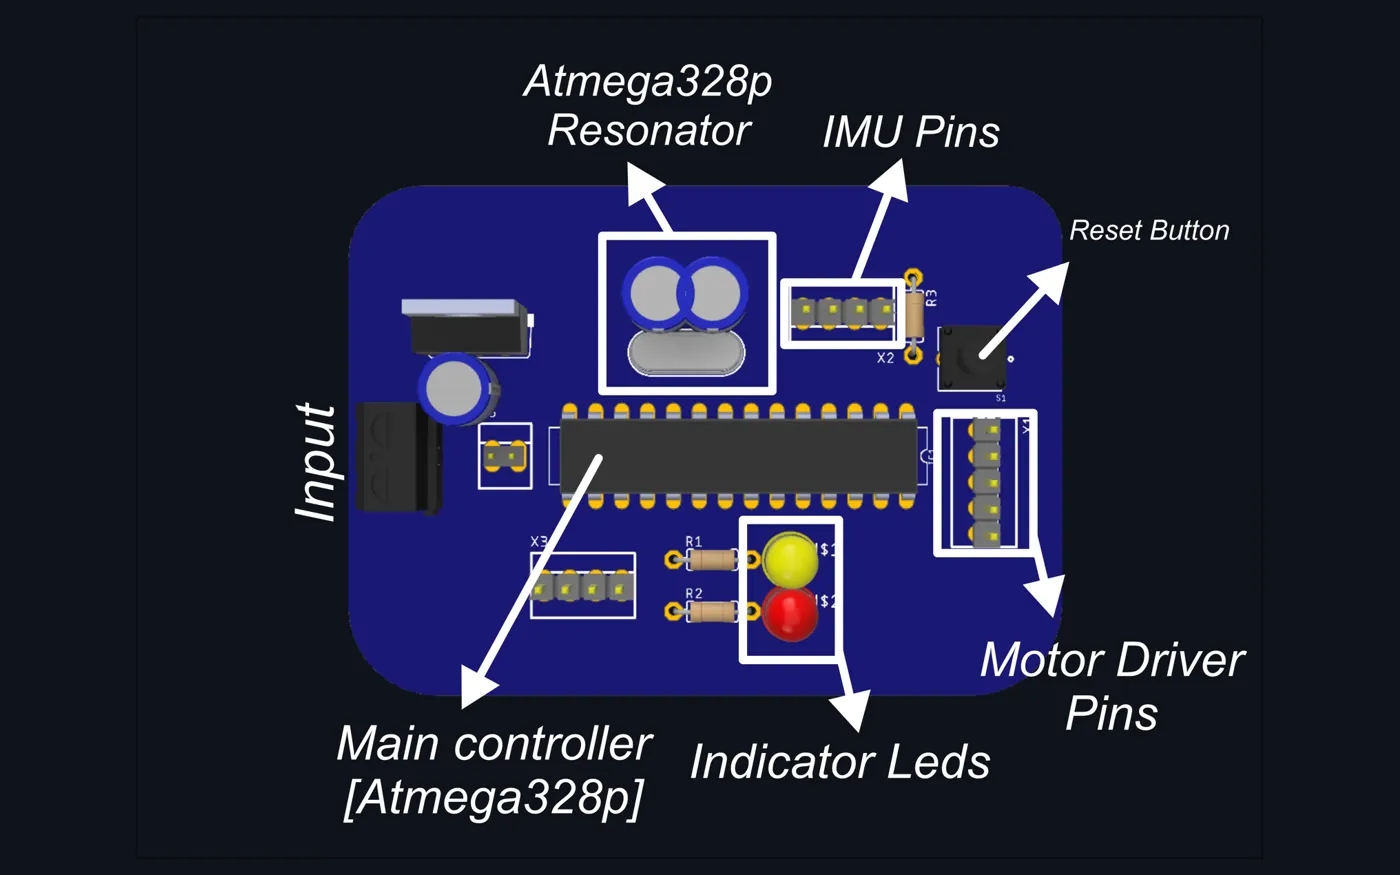
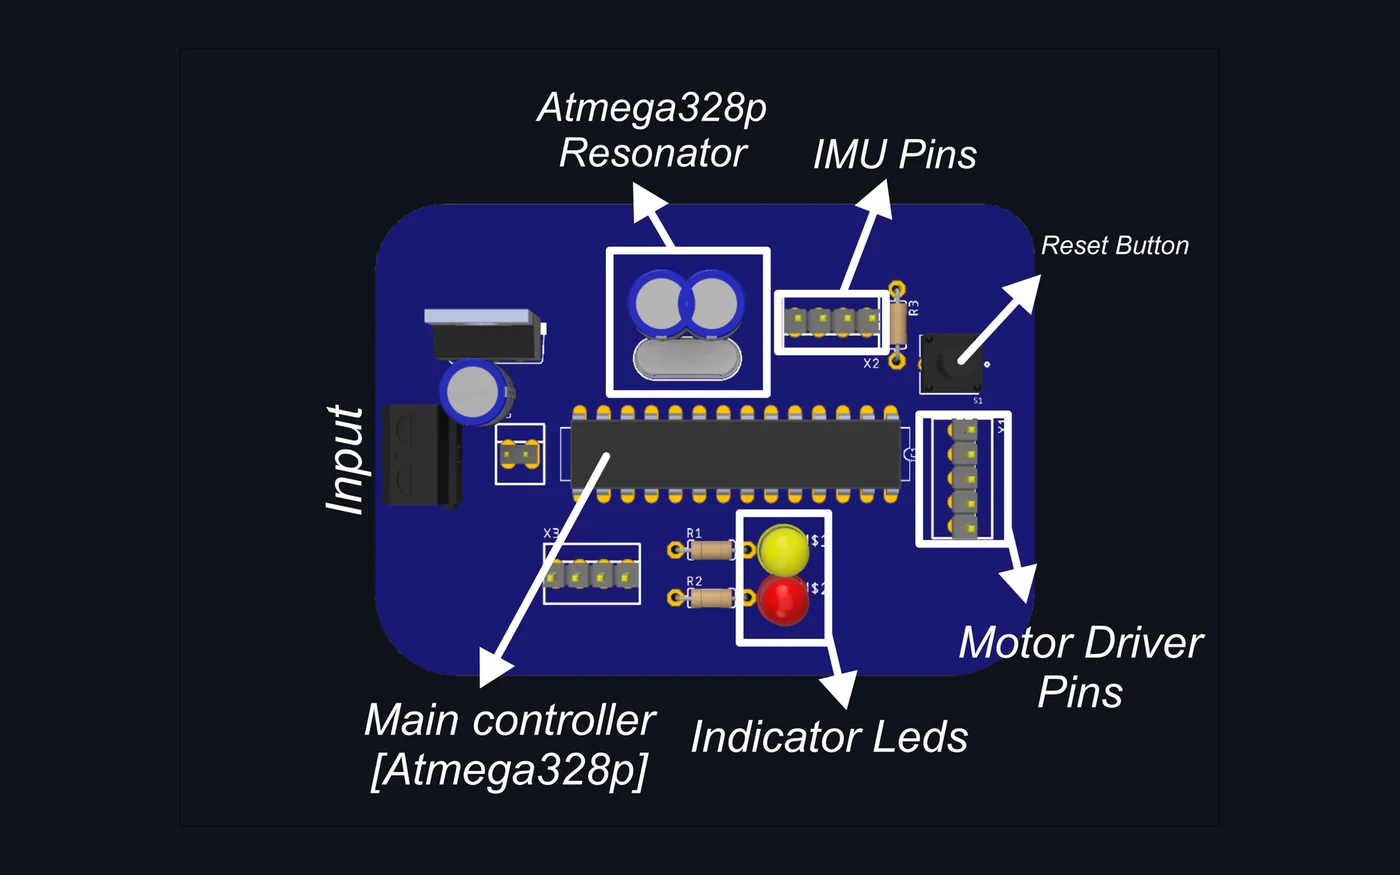
Boards: shorter glossaries, balancing robot image set, swap first SMT images
Claude-Session: https://claude.ai/code/session_01GDMxHVDaxneFdes9ouXJvJ

Changed region(s): [[0.215, 0.0617, 0.8907, 0.9566]]

diff --git a/index.html b/index.html
@@ -1353,7 +1353,7 @@ bs.forEach(function(b,i){b.addEventListener('click',function(){if(window.__lbOpe
 </section>
 <script>
 (function(){
-var I='pcbs/',D=[{"k": "Hybrid V3 · SMT", "t": "Hybrid model-aircraft controller, V3 (SMT)", "m": "Oct 2021 · Eagle · two ATmega328P · the most advanced of these boards", "s": "The surface-mount version of my third controller board for model aircraft. Two ATmega328P microcontrollers share one board with a radio socket, a gyroscope header and servo and motor outputs, and each has its own USB port for programming. The renders are my own Blender scenes.", "im": [["v3smt-00.webp", "Labelled view"], ["v3smt-01.webp", "Top, angled"], ["v3smt-02.webp", "Top, angled, wider"], ["v3smt-03.webp", "Edge-on view of the bottom copper"], ["v3smt-04.webp", "Bottom copper"], ["v3smt-05.webp", "Top, from above and to one side"], ["v3smt-06.webp", "Top, small"], ["v3smt-07.webp", "Close-up of the power section"], ["v3smt-08.webp", "Close-up of the pin headers"], ["v3smt-09.webp", "Close-up of the radio socket and reset button"], ["v3smt-10.webp", "Top view"], ["v3smt-11.webp", "Bottom copper, full width"], ["v3smt-12.webp", "Top view, full width"]], "g": [["Maincontroller 1 and 2 (ATmega328P)", "Two TQFP chips on one board, each with its own resonator, reset button and USB port."], ["CH340G USB-to-serial, ×2", "One per microcontroller, each with its own micro-USB port, so either chip can be reprogrammed without a separate programmer."], ["Main power regulators", "Bring the supply down to the 5 V rail for the logic and servos."], ["3.3 V regulator for the radio", "The nRF24L01 radio runs at 3.3 V, so it gets its own regulator instead of sharing the 5 V rail."], ["Radio module input pins", "An 8-pin socket for the nRF24L01 radio module."], ["Gyroscope sensor pins", "A 4-pin header for a GY-521 (MPU-6050) gyroscope and accelerometer board."], ["Servos and motor outputs", "The long pin header that carries every servo and motor signal off the board."], ["ATtiny85 MCUs", "Two small ATtiny85 chips on the board for side jobs next to the main controllers."], ["Resonators, reset buttons, indicator LEDs", "Ceramic resonators clock each ATmega328P, a reset button sits beside each chip, and the LED groups show status."]]}, {"k": "Hybrid V3 · TH", "t": "Hybrid model-aircraft controller, V3 (through-hole)", "m": "Jan 2021 · Eagle · same circuit, hand-solderable", "s": "The same V3 circuit with through-hole parts, so it can be soldered with a basic iron and a socketed DIP ATmega328P. I drew it first; the surface-mount version came later in the year.", "im": [["v3th-00.webp", "3D render"], ["v3th-01.webp", "3D render"], ["v3th-02.webp", "3D render"], ["v3th-03.webp", "3D render"], ["v3th-04.webp", "3D render"], ["v3th-05.webp", "3D render"], ["v3th-06.webp", "3D render"]], "g": [["Maincontroller 1 and 2 (DIP ATmega328P)", "Through-hole chips in sockets, so a damaged processor can be pulled out and replaced."], ["USB A connectors", "Full-size USB ports in place of the micro-USB sockets on the SMT version."], ["CH340G USB-to-serial, ×2", "One per microcontroller, as on the SMT board."], ["Main power regulators", "The 5 V supply for the logic and servos."], ["3.3 V regulator for the radio", "A separate 3.3 V rail for the nRF24L01 radio module."], ["Radio module input pins", "The 8-pin socket the radio plugs into."], ["Gyroscope sensor pins", "A header for the GY-521 gyroscope board."], ["Servos and motor outputs", "Servo and motor signal headers along the board edge."], ["ATtiny85 MCUs, reset buttons, LEDs", "Two ATtiny85 helpers, a reset button for each main chip, and two LED groups."]]}, {"k": "Flight controller V2", "t": "Flight controller V2: two boards, one system", "m": "Nov 2020 · Eagle · ATmega328P · MultiWii", "s": "My second flight controller, split into two boards. One runs MultiWii, an open-source flight controller firmware, and drives the servos. The other is a radio receiver with an nRF24L01 that feeds it. Only three wires join them: 5 V, ground and a single PPM signal that carries every radio channel.", "im": [["fc-00.webp", "Flight controller board"], ["rx-00.webp", "Receiver board"], ["fc-01.webp", "Flight controller board"], ["rx-01.webp", "Receiver board"], ["fc-02.webp", "Flight controller board, close-up"], ["rx-02.webp", "Receiver board, close-up"], ["fc-03.webp", "Flight controller board, close-up"], ["rx-03.webp", "Receiver board, close-up"], ["fc-04.webp", "Flight controller board layout"], ["rx-04.webp", "Receiver board layout"], ["fc-05.webp", "Flight controller board, copper"], ["rx-05.webp", "Receiver board, copper"], ["fc-06.webp", "Flight controller board, copper"], ["rx-06.webp", "Receiver board, copper"], ["fc-07.webp", "Flight controller schematic"]], "gh": [["Flight controller board", [["ATmega328P running MultiWii", "The flight controller itself, with a crystal and two load capacitors."], ["Servo and motor outputs", "Rows of pin headers carry the outputs to the servos and speed controllers."], ["Status LED and power input", "A red LED shows the board is alive, and a 2-pin input takes the supply."]]], ["Receiver board", [["nRF24L01 radio", "A socket for the radio module, with the antenna end kept clear of copper along the board edge."], ["ATmega328P receiver", "Reads the radio packets and turns them into one PPM stream for the flight controller."], ["Voltage regulator", "A small surface-mount regulator beside the radio."]]], ["Between the boards", [["Three wires", "5 V, ground and one PPM signal. All of the radio data crosses on that single PPM line."]]]]}, {"k": "Balancing robot", "t": "Self-balancing robot controller", "m": "Apr 2021 · Eagle · ATmega328P", "s": "A compact controller for a two-wheeled balancing robot. It reads an IMU, runs the balance loop on an ATmega328P and sends drive commands to a motor driver.", "im": [["bal-00.webp", "Labelled view of the controller"], ["bal-01.webp", "3D render close-up"], ["bal-02.webp", "PCB layout"]], "g": [["Main controller (ATmega328P)", "A DIP-28 chip that runs the balance loop and talks to the IMU and the motor driver."], ["Resonator", "A crystal with two 22 pF capacitors for a stable clock, which the loop timing depends on."], ["IMU pins", "A 4-pin header for the inertial sensor that measures tilt."], ["Motor driver pins", "A 5-pin header to the motor driver board."], ["Input", "A screw terminal and regulator bring the battery down to the 5 V the chip needs."], ["Indicator LEDs and reset button", "Two LEDs with their own resistors for state, and a push button to restart the firmware."]]}, {"k": "Slayer exciter", "t": "Slayer exciter driver board", "m": "Sep 2020 · Eagle · TIP41C transistors", "s": "The switching board for a Slayer exciter, a small solid-state Tesla coil circuit. Four TIP41C power transistors share the switching current.", "im": [["sl-00.webp", "Labelled view"], ["sl-01.webp", "3D render"], ["sl-02.webp", "Close-up"], ["sl-03.webp", "Close-up from the other side"], ["sl-04.webp", "3D render, wide"], ["sl-05.webp", "Top view"], ["sl-06.webp", "Layout, top copper"], ["sl-07.webp", "Layout, with net names"], ["sl-08.webp", "Schematic"]], "g": [["Input and output", "Two 2-pin terminals, one for the supply and one for the coil connection."], ["Parallel transistors", "Four TIP41C power transistors wired in parallel, so each carries a share of the switching current."], ["Base resistors", "Four through-hole resistors set the drive current into the transistor bases."], ["Feedback pin", "A pin that feeds a signal back from the coil side to the transistor drive."]]}, {"k": "Relay module", "t": "5 V relay module", "m": "Mar 2021 · Eagle · BC547 driver", "s": "A one-channel relay board for switching mains-rated loads from a 3.3 V or 5 V logic pin. A small transistor drives the relay coil so the microcontroller pin never carries coil current.", "im": [["relay-00.webp", "3D render of the relay module"], ["relay-01.webp", "Top view"], ["relay-02.webp", "Schematic"]], "g": [["SRD-05VDC relay", "A 5 V coil relay with changeover contacts, rated at 10 A."], ["BC547 driver transistor", "Switches the coil from the ENABLE pin through a base resistor."], ["1N4007 flyback diode", "Clamps the voltage spike when the coil turns off, protecting the transistor."], ["Status LEDs", "One shows that power is present, one that the relay is active."], ["Input pins", "ENABLE, 5 V and GND on a three-pin header."], ["Output terminal", "A screw terminal for the load wires."]]}, {"k": "ATmega328P programmer", "t": "ATmega328P programmer board", "m": "Jan 2021 · Eagle · CH340G", "s": "A board I use to program bare SMD ATmega328P chips. I snap the chip onto it, program it over USB, then take it off, which is much faster than programming each chip on its final board.", "im": [["atmega-00.webp", "3D render of the board"], ["atmega-01.webp", "Close-up of the CH340G and crystal"]], "g": [["ATmega328P-AU footprint", "The TQFP footprint where the chip being programmed sits."], ["CH340G USB-to-serial", "Lets the chip be programmed over USB like an Arduino."], ["Micro-USB connector", "Power and programming in one cable."], ["Crystal and load capacitors", "The clock source for the chip."], ["Reset switch", "Restarts the chip without unplugging the board."]]}, {"k": "ATtiny85 breakout", "t": "ATtiny85 breakout board", "m": "Jan 2021 · Eagle · smallest board", "s": "A small breakout for an SOIC ATtiny85, so the chip can be programmed and then plugged into other circuits.", "im": [["attiny-00.webp", "3D render of the board"], ["attiny-01.webp", "Close-up of the chip and header"]], "g": [["ATtiny85V-10SH", "The 8-pin SOIC microcontroller."], ["Two 4-pin headers (J1, J2)", "Break out all eight pins so the chip can plug into a programmer or a breadboard."], ["LED and resistor", "A status light with a 5.6 kΩ series resistor."]]}];
+var I='pcbs/',D=[{"k": "Hybrid V3 · SMT", "t": "Hybrid model-aircraft controller, V3 (SMT)", "m": "Oct 2021 · Eagle · two ATmega328P · the most advanced of these boards", "s": "Surface-mount V3 controller for model aircraft with two ATmega328P chips, each with its own USB port. The renders are my own Blender scenes.", "im": [["v3smt-01.webp", "Top, angled"], ["v3smt-00.webp", "Labelled view"], ["v3smt-02.webp", "Top, angled, wider"], ["v3smt-03.webp", "Edge-on view of the bottom copper"], ["v3smt-04.webp", "Bottom copper"], ["v3smt-05.webp", "Top, from above and to one side"], ["v3smt-06.webp", "Top, small"], ["v3smt-07.webp", "Close-up of the power section"], ["v3smt-08.webp", "Close-up of the pin headers"], ["v3smt-09.webp", "Close-up of the radio socket and reset button"], ["v3smt-10.webp", "Top view"], ["v3smt-11.webp", "Bottom copper, full width"], ["v3smt-12.webp", "Top view, full width"]], "g": [["Two ATmega328P", "One TQFP chip per half of the board."], ["CH340G, ×2", "USB-to-serial, one per chip."], ["Regulators", "5 V rail, plus 3.3 V for the radio."], ["Radio socket", "8-pin header for an nRF24L01."], ["Gyro pins", "4-pin header for a GY-521."], ["Servo and motor outputs", "Long header along the edge."], ["Two ATtiny85", "Helper chips for side jobs."]]}, {"k": "Hybrid V3 · TH", "t": "Hybrid model-aircraft controller, V3 (through-hole)", "m": "Jan 2021 · Eagle · same circuit, hand-solderable", "s": "The same V3 circuit with through-hole parts, so it can be soldered by hand.", "im": [["v3th-00.webp", "3D render"], ["v3th-01.webp", "3D render"], ["v3th-02.webp", "3D render"], ["v3th-03.webp", "3D render"], ["v3th-04.webp", "3D render"], ["v3th-05.webp", "3D render"], ["v3th-06.webp", "3D render"]], "g": [["Two DIP ATmega328P", "Socketed, easy to replace."], ["CH340G, ×2", "USB-to-serial, one per chip."], ["Regulators", "5 V rail, plus 3.3 V for the radio."], ["Radio socket", "8-pin header for an nRF24L01."], ["Gyro pins", "4-pin header for a GY-521."], ["Servo and motor outputs", "Headers along the edge."]]}, {"k": "Flight controller V2", "t": "Flight controller V2: two boards, one system", "m": "Nov 2020 · Eagle · ATmega328P · MultiWii", "s": "Two boards: a MultiWii flight controller and an nRF24L01 receiver. Only 5 V, GND and one PPM line join them.", "im": [["fc-00.webp", "Flight controller board"], ["rx-00.webp", "Receiver board"], ["fc-01.webp", "Flight controller board"], ["rx-01.webp", "Receiver board"], ["fc-02.webp", "Flight controller board, close-up"], ["rx-02.webp", "Receiver board, close-up"], ["fc-03.webp", "Flight controller board, close-up"], ["rx-03.webp", "Receiver board, close-up"], ["fc-04.webp", "Flight controller board layout"], ["rx-04.webp", "Receiver board layout"], ["fc-05.webp", "Flight controller board, copper"], ["rx-05.webp", "Receiver board, copper"], ["fc-06.webp", "Flight controller board, copper"], ["rx-06.webp", "Receiver board, copper"], ["fc-07.webp", "Flight controller schematic"]], "gh": [["Flight controller board", [["ATmega328P", "Runs MultiWii."], ["Servo and motor outputs", "Pin header rows."], ["Status LED", "Shows the board is powered."]]], ["Receiver board", [["nRF24L01 radio", "Socket with the antenna edge kept clear."], ["ATmega328P", "Turns radio packets into one PPM stream."], ["Regulator", "Small SMD regulator for the radio."]]], ["Between the boards", [["Three wires", "5 V, GND and PPM."]]]]}, {"k": "Balancing robot", "t": "Self-balancing robot controller", "m": "Apr 2021 · Eagle · ATmega328P", "s": "A compact controller for a two-wheeled balancing robot. An ATmega328P reads an IMU and drives a motor driver.", "im": [["bal-00.webp", "Labelled view"], ["bal-01.webp", "3D render, top"], ["bal-02.webp", "3D render, top, alternate angle"], ["bal-03.webp", "Top view"], ["bal-04.webp", "Bottom copper"], ["bal-05.webp", "Close-up of the pin headers"], ["bal-06.webp", "Close-up of the chip and LEDs"], ["bal-07.webp", "PCB layout"], ["bal-08.webp", "Schematic"]], "g": [["Main controller", "ATmega328P that runs the balance loop."], ["Resonator", "Clock for the controller."], ["IMU pins", "Header for the tilt sensor."], ["Motor driver pins", "Header to the motor driver board."], ["Indicator LEDs", "Two status lights."], ["Reset button", "Restarts the firmware."]]}, {"k": "Slayer exciter", "t": "Slayer exciter driver board", "m": "Sep 2020 · Eagle · TIP41C transistors", "s": "Switching board for a Slayer exciter, a small solid-state Tesla coil circuit.", "im": [["sl-00.webp", "Labelled view"], ["sl-01.webp", "3D render"], ["sl-02.webp", "Close-up"], ["sl-03.webp", "Close-up from the other side"], ["sl-04.webp", "3D render, wide"], ["sl-05.webp", "Top view"], ["sl-06.webp", "Layout, top copper"], ["sl-07.webp", "Layout, with net names"], ["sl-08.webp", "Schematic"]], "g": [["Parallel transistors", "Four TIP41C share the switching current."], ["Base resistors", "Set the transistor drive current."], ["Input and output", "Supply and coil terminals."], ["Feedback pin", "Feeds the coil signal back to the drive."]]}, {"k": "Relay module", "t": "5 V relay module", "m": "Mar 2021 · Eagle · BC547 driver", "s": "One-channel relay board that switches a load from a 3.3 V or 5 V logic pin.", "im": [["relay-00.webp", "3D render of the relay module"], ["relay-01.webp", "Top view"], ["relay-02.webp", "Schematic"]], "g": [["SRD-05VDC relay", "5 V coil, 10 A contacts."], ["BC547 driver", "Switches the coil."], ["1N4007 diode", "Absorbs the coil spike."], ["Status LEDs", "Power and relay active."], ["Input and output", "3-pin header and screw terminal."]]}, {"k": "ATmega328P programmer", "t": "ATmega328P programmer board", "m": "Jan 2021 · Eagle · CH340G", "s": "Board for programming bare SMD ATmega328P chips: snap one on, program it, take it off.", "im": [["atmega-00.webp", "3D render of the board"], ["atmega-01.webp", "Close-up of the CH340G and crystal"]], "g": [["ATmega328P-AU footprint", "Where the chip sits."], ["CH340G", "USB programming."], ["Crystal and caps", "Clock source."], ["Reset switch", "Restarts the chip."]]}, {"k": "ATtiny85 breakout", "t": "ATtiny85 breakout board", "m": "Jan 2021 · Eagle · smallest board", "s": "Breakout for an SOIC ATtiny85 so it can be programmed and plugged into other circuits.", "im": [["attiny-00.webp", "3D render of the board"], ["attiny-01.webp", "Close-up of the chip and header"]], "g": [["ATtiny85V-10SH", "8-pin SOIC microcontroller."], ["Two 4-pin headers", "Break out all eight pins."], ["LED and resistor", "Status light."]]}];
 function ar(d){return '<svg viewBox="0 0 24 24" aria-hidden="true"><path d="'+d+'"/></svg>'}
 var tabs=document.getElementById('pk'),root=document.getElementById('pp-root'),btns=[],ps=[];
 function el(t,c,h){var e=document.createElement(t);if(c)e.className=c;if(h!=null)e.innerHTML=h;return e}
